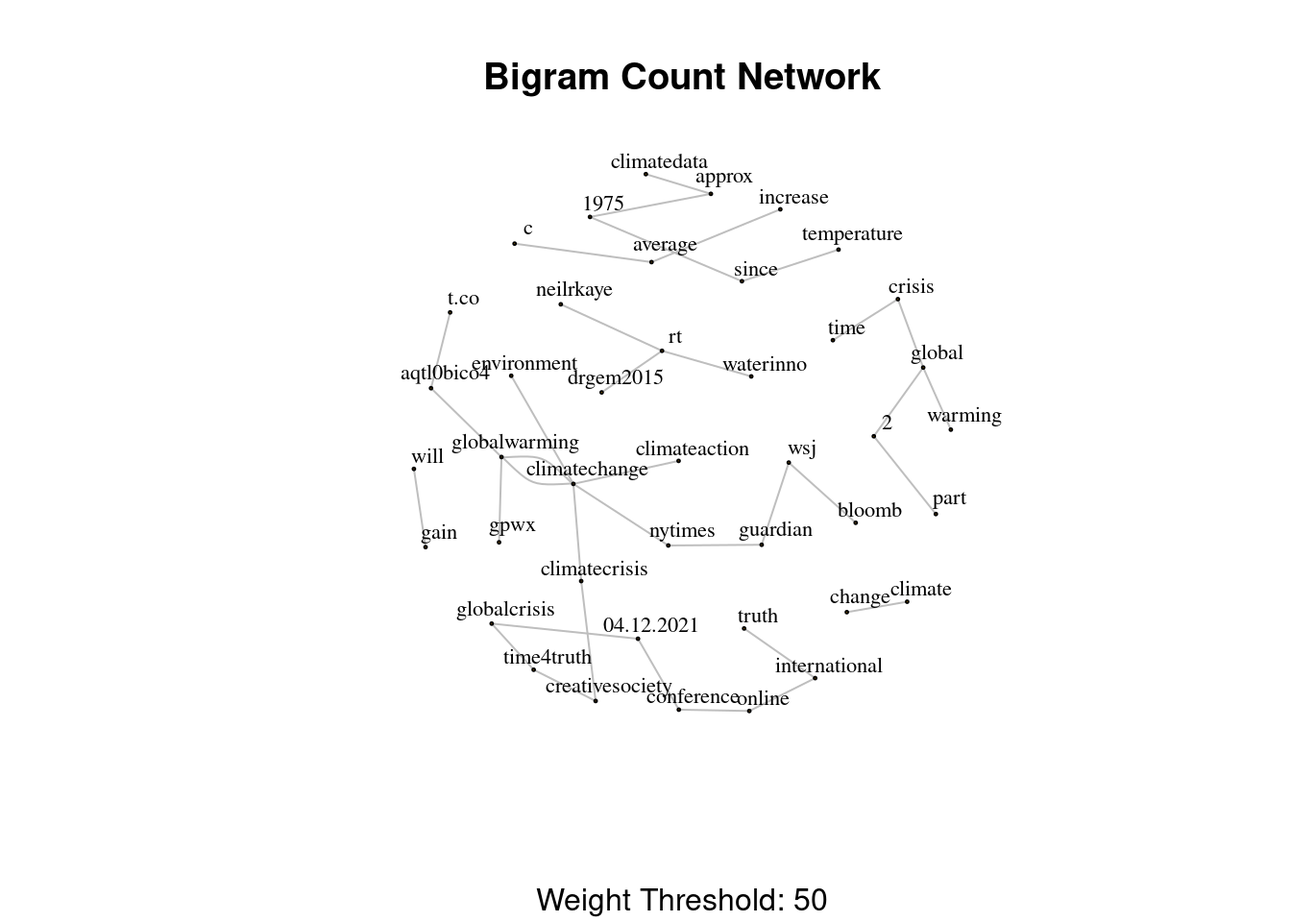
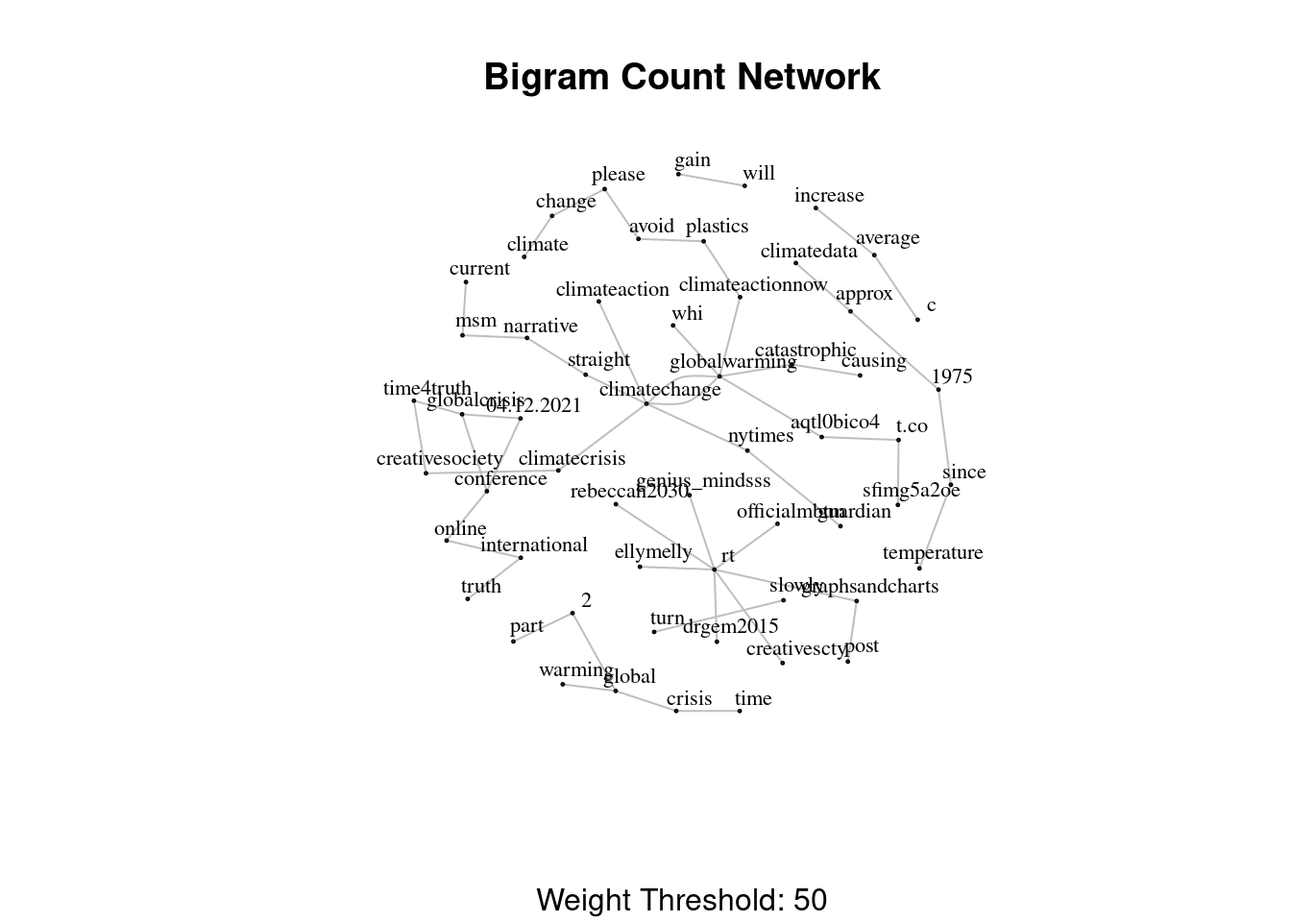
twitter sentiment analysis post

Changed region(s): [[0.2812, 0.1562, 0.7812, 0.7812]]

diff --git a/content/post/2021-12-05-twitter-sentiment-analysis-with-r/index.html b/content/post/2021-12-05-twitter-sentiment-analysis-with-r/index.html
@@ -16,7 +16,7 @@ output:
   blogdown::html_page:
     toc: true
     toc_depth: 2
-draft: true
+draft: false 
 ---
 
 <script src="{{< blogdown/postref >}}index_files/header-attrs/header-attrs.js"></script>
@@ -166,10 +166,10 @@ tweets.df %&lt;&gt;%
   mutate(Created_At_Round = created%&gt;% round(units = &#39;hours&#39;) %&gt;% as.POSIXct())
 
 tweets.df %&gt;% pull(created) %&gt;% min()
-## [1] &quot;2021-11-30 22:51:06 UTC&quot;
+## [1] &quot;2021-12-04 03:55:59 UTC&quot;
 
 tweets.df %&gt;% pull(created) %&gt;% max()
-## [1] &quot;2021-12-06 02:00:01 UTC&quot;
+## [1] &quot;2021-12-09 02:39:20 UTC&quot;
 
 plt &lt;- tweets.df %&gt;% 
   dplyr::count(Created_At_Round) %&gt;% 
@@ -182,7 +182,7 @@ plt &lt;- tweets.df %&gt;%
 
 plt %&gt;% ggplotly()</code></pre>
 <div id="htmlwidget-1" style="width:672px;height:480px;" class="plotly html-widget"></div>
-<script type="application/json" data-for="htmlwidget-1">{"x":{"data":[{"x":[1638313200,1638316800,1638320400,1638324000,1638327600,1638331200,1638334800,1638338400,1638342000,1638345600,1638349200,1638352800,1638356400,1638360000,1638363600,1638367200,1638370800,1638374400,1638378000,1638381600,1638385200,1638388800,1638392400,1638396000,1638399600,1638403200,1638406800,1638410400,1638414000,1638417600,1638421200,1638424800,1638428400,1638432000,1638435600,1638439200,1638442800,1638446400,1638450000,1638453600,1638457200,1638460800,1638464400,1638468000,1638471600,1638475200,1638478800,1638482400,1638486000,1638489600,1638493200,1638496800,1638500400,1638504000,1638507600,1638511200,1638514800,1638518400,1638522000,1638525600,1638529200,1638532800,1638536400,1638540000,1638543600,1638547200,1638550800,1638554400,1638558000,1638561600,1638565200,1638568800,1638572400,1638576000,1638579600,1638583200,1638586800,1638590400,1638594000,1638597600,1638601200,1638604800,1638608400,1638612000,1638615600,1638619200,1638622800,1638626400,1638630000,1638633600,1638637200,1638640800,1638644400,1638648000,1638651600,1638655200,1638658800,1638662400,1638666000,1638669600,1638673200,1638676800,1638680400,1638684000,1638687600,1638691200,1638694800,1638698400,1638702000,1638705600,1638709200,1638712800,1638716400,1638720000,1638723600,1638727200,1638730800,1638734400,1638738000,1638741600,1638745200,1638748800,1638752400,1638756000],"y":[24,16,20,14,29,20,27,28,56,22,31,46,31,21,32,30,64,36,53,58,44,33,37,41,30,19,17,42,20,41,38,37,39,38,42,42,50,63,37,39,45,38,43,81,35,56,49,26,33,40,52,21,27,26,24,19,22,30,26,24,27,27,32,29,38,52,52,36,29,37,47,16,10,8,16,26,21,44,23,24,20,9,11,17,25,32,50,32,45,59,43,40,38,50,76,22,28,16,26,20,15,30,24,16,27,14,22,33,23,37,23,18,25,41,22,42,32,24,31,47,27,18,24,8],"text":["Created_At_Round: 2021-11-30 23:00:00<br />n: 24","Created_At_Round: 2021-12-01 00:00:00<br />n: 16","Created_At_Round: 2021-12-01 01:00:00<br />n: 20","Created_At_Round: 2021-12-01 02:00:00<br />n: 14","Created_At_Round: 2021-12-01 03:00:00<br />n: 29","Created_At_Round: 2021-12-01 04:00:00<br />n: 20","Created_At_Round: 2021-12-01 05:00:00<br />n: 27","Created_At_Round: 2021-12-01 06:00:00<br />n: 28","Created_At_Round: 2021-12-01 07:00:00<br />n: 56","Created_At_Round: 2021-12-01 08:00:00<br />n: 22","Created_At_Round: 2021-12-01 09:00:00<br />n: 31","Created_At_Round: 2021-12-01 10:00:00<br />n: 46","Created_At_Round: 2021-12-01 11:00:00<br />n: 31","Created_At_Round: 2021-12-01 12:00:00<br />n: 21","Created_At_Round: 2021-12-01 13:00:00<br />n: 32","Created_At_Round: 2021-12-01 14:00:00<br />n: 30","Created_At_Round: 2021-12-01 15:00:00<br />n: 64","Created_At_Round: 2021-12-01 16:00:00<br />n: 36","Created_At_Round: 2021-12-01 17:00:00<br />n: 53","Created_At_Round: 2021-12-01 18:00:00<br />n: 58","Created_At_Round: 2021-12-01 19:00:00<br />n: 44","Created_At_Round: 2021-12-01 20:00:00<br />n: 33","Created_At_Round: 2021-12-01 21:00:00<br />n: 37","Created_At_Round: 2021-12-01 22:00:00<br />n: 41","Created_At_Round: 2021-12-01 23:00:00<br />n: 30","Created_At_Round: 2021-12-02 00:00:00<br />n: 19","Created_At_Round: 2021-12-02 01:00:00<br />n: 17","Created_At_Round: 2021-12-02 02:00:00<br />n: 42","Created_At_Round: 2021-12-02 03:00:00<br />n: 20","Created_At_Round: 2021-12-02 04:00:00<br />n: 41","Created_At_Round: 2021-12-02 05:00:00<br />n: 38","Created_At_Round: 2021-12-02 06:00:00<br />n: 37","Created_At_Round: 2021-12-02 07:00:00<br />n: 39","Created_At_Round: 2021-12-02 08:00:00<br />n: 38","Created_At_Round: 2021-12-02 09:00:00<br />n: 42","Created_At_Round: 2021-12-02 10:00:00<br />n: 42","Created_At_Round: 2021-12-02 11:00:00<br />n: 50","Created_At_Round: 2021-12-02 12:00:00<br />n: 63","Created_At_Round: 2021-12-02 13:00:00<br />n: 37","Created_At_Round: 2021-12-02 14:00:00<br />n: 39","Created_At_Round: 2021-12-02 15:00:00<br />n: 45","Created_At_Round: 2021-12-02 16:00:00<br />n: 38","Created_At_Round: 2021-12-02 17:00:00<br />n: 43","Created_At_Round: 2021-12-02 18:00:00<br />n: 81","Created_At_Round: 2021-12-02 19:00:00<br />n: 35","Created_At_Round: 2021-12-02 20:00:00<br />n: 56","Created_At_Round: 2021-12-02 21:00:00<br />n: 49","Created_At_Round: 2021-12-02 22:00:00<br />n: 26","Created_At_Round: 2021-12-02 23:00:00<br />n: 33","Created_At_Round: 2021-12-03 00:00:00<br />n: 40","Created_At_Round: 2021-12-03 01:00:00<br />n: 52","Created_At_Round: 2021-12-03 02:00:00<br />n: 21","Created_At_Round: 2021-12-03 03:00:00<br />n: 27","Created_At_Round: 2021-12-03 04:00:00<br />n: 26","Created_At_Round: 2021-12-03 05:00:00<br />n: 24","Created_At_Round: 2021-12-03 06:00:00<br />n: 19","Created_At_Round: 2021-12-03 07:00:00<br />n: 22","Created_At_Round: 2021-12-03 08:00:00<br />n: 30","Created_At_Round: 2021-12-03 09:00:00<br />n: 26","Created_At_Round: 2021-12-03 10:00:00<br />n: 24","Created_At_Round: 2021-12-03 11:00:00<br />n: 27","Created_At_Round: 2021-12-03 12:00:00<br />n: 27","Created_At_Round: 2021-12-03 13:00:00<br />n: 32","Created_At_Round: 2021-12-03 14:00:00<br />n: 29","Created_At_Round: 2021-12-03 15:00:00<br />n: 38","Created_At_Round: 2021-12-03 16:00:00<br />n: 52","Created_At_Round: 2021-12-03 17:00:00<br />n: 52","Created_At_Round: 2021-12-03 18:00:00<br />n: 36","Created_At_Round: 2021-12-03 19:00:00<br />n: 29","Created_At_Round: 2021-12-03 20:00:00<br />n: 37","Created_At_Round: 2021-12-03 21:00:00<br />n: 47","Created_At_Round: 2021-12-03 22:00:00<br />n: 16","Created_At_Round: 2021-12-03 23:00:00<br />n: 10","Created_At_Round: 2021-12-04 00:00:00<br />n:  8","Created_At_Round: 2021-12-04 01:00:00<br />n: 16","Created_At_Round: 2021-12-04 02:00:00<br />n: 26","Created_At_Round: 2021-12-04 03:00:00<br />n: 21","Created_At_Round: 2021-12-04 04:00:00<br />n: 44","Created_At_Round: 2021-12-04 05:00:00<br />n: 23","Created_At_Round: 2021-12-04 06:00:00<br />n: 24","Created_At_Round: 2021-12-04 07:00:00<br />n: 20","Created_At_Round: 2021-12-04 08:00:00<br />n:  9","Created_At_Round: 2021-12-04 09:00:00<br />n: 11","Created_At_Round: 2021-12-04 10:00:00<br />n: 17","Created_At_Round: 2021-12-04 11:00:00<br />n: 25","Created_At_Round: 2021-12-04 12:00:00<br />n: 32","Created_At_Round: 2021-12-04 13:00:00<br />n: 50","Created_At_Round: 2021-12-04 14:00:00<br />n: 32","Created_At_Round: 2021-12-04 15:00:00<br />n: 45","Created_At_Round: 2021-12-04 16:00:00<br />n: 59","Created_At_Round: 2021-12-04 17:00:00<br />n: 43","Created_At_Round: 2021-12-04 18:00:00<br />n: 40","Created_At_Round: 2021-12-04 19:00:00<br />n: 38","Created_At_Round: 2021-12-04 20:00:00<br />n: 50","Created_At_Round: 2021-12-04 21:00:00<br />n: 76","Created_At_Round: 2021-12-04 22:00:00<br />n: 22","Created_At_Round: 2021-12-04 23:00:00<br />n: 28","Created_At_Round: 2021-12-05 00:00:00<br />n: 16","Created_At_Round: 2021-12-05 01:00:00<br />n: 26","Created_At_Round: 2021-12-05 02:00:00<br />n: 20","Created_At_Round: 2021-12-05 03:00:00<br />n: 15","Created_At_Round: 2021-12-05 04:00:00<br />n: 30","Created_At_Round: 2021-12-05 05:00:00<br />n: 24","Created_At_Round: 2021-12-05 06:00:00<br />n: 16","Created_At_Round: 2021-12-05 07:00:00<br />n: 27","Created_At_Round: 2021-12-05 08:00:00<br />n: 14","Created_At_Round: 2021-12-05 09:00:00<br />n: 22","Created_At_Round: 2021-12-05 10:00:00<br />n: 33","Created_At_Round: 2021-12-05 11:00:00<br />n: 23","Created_At_Round: 2021-12-05 12:00:00<br />n: 37","Created_At_Round: 2021-12-05 13:00:00<br />n: 23","Created_At_Round: 2021-12-05 14:00:00<br />n: 18","Created_At_Round: 2021-12-05 15:00:00<br />n: 25","Created_At_Round: 2021-12-05 16:00:00<br />n: 41","Created_At_Round: 2021-12-05 17:00:00<br />n: 22","Created_At_Round: 2021-12-05 18:00:00<br />n: 42","Created_At_Round: 2021-12-05 19:00:00<br />n: 32","Created_At_Round: 2021-12-05 20:00:00<br />n: 24","Created_At_Round: 2021-12-05 21:00:00<br />n: 31","Created_At_Round: 2021-12-05 22:00:00<br />n: 47","Created_At_Round: 2021-12-05 23:00:00<br />n: 27","Created_At_Round: 2021-12-06 00:00:00<br />n: 18","Created_At_Round: 2021-12-06 01:00:00<br />n: 24","Created_At_Round: 2021-12-06 02:00:00<br />n:  8"],"type":"scatter","mode":"lines","line":{"width":1.88976377952756,"color":"rgba(0,0,0,1)","dash":"solid"},"hoveron":"points","showlegend":false,"xaxis":"x","yaxis":"y","hoverinfo":"text","frame":null}],"layout":{"margin":{"t":43.7625570776256,"r":7.30593607305936,"b":40.1826484018265,"l":22.648401826484},"plot_bgcolor":"rgba(255,255,255,1)","paper_bgcolor":"rgba(255,255,255,1)","font":{"color":"rgba(0,0,0,1)","family":"","size":14.6118721461187},"title":{"text":"Number of Tweets per Hour","font":{"color":"rgba(0,0,0,1)","family":"","size":17.5342465753425},"x":0,"xref":"paper"},"xaxis":{"domain":[0,1],"automargin":true,"type":"linear","autorange":false,"range":[1638291060,1638778140],"tickmode":"array","ticktext":["Dec 02","Dec 04","Dec 06"],"tickvals":[1638403200,1638576000,1638748800],"categoryorder":"array","categoryarray":["Dec 02","Dec 04","Dec 06"],"nticks":null,"ticks":"outside","tickcolor":"rgba(179,179,179,1)","ticklen":3.65296803652968,"tickwidth":0.33208800332088,"showticklabels":true,"tickfont":{"color":"rgba(77,77,77,1)","family":"","size":11.689497716895},"tickangle":-0,"showline":false,"linecolor":null,"linewidth":0,"showgrid":true,"gridcolor":"rgba(222,222,222,1)","gridwidth":0.33208800332088,"zeroline":false,"anchor":"y","title":{"text":"Date","font":{"color":"rgba(0,0,0,1)","family":"","size":14.6118721461187}},"hoverformat":".2f"},"yaxis":{"domain":[0,1],"automargin":true,"type":"linear","autorange":false,"range":[4.35,84.65],"tickmode":"array","ticktext":["20","40","60","80"],"tickvals":[20,40,60,80],"categoryorder":"array","categoryarray":["20","40","60","80"],"nticks":null,"ticks":"outside","tickcolor":"rgba(179,179,179,1)","ticklen":3.65296803652968,"tickwidth":0.33208800332088,"showticklabels":true,"tickfont":{"color":"rgba(77,77,77,1)","family":"","size":11.689497716895},"tickangle":-0,"showline":false,"linecolor":null,"linewidth":0,"showgrid":true,"gridcolor":"rgba(222,222,222,1)","gridwidth":0.33208800332088,"zeroline":false,"anchor":"x","title":{"text":"","font":{"color":"rgba(0,0,0,1)","family":"","size":14.6118721461187}},"hoverformat":".2f"},"shapes":[{"type":"rect","fillcolor":"transparent","line":{"color":"rgba(179,179,179,1)","width":0.66417600664176,"linetype":"solid"},"yref":"paper","xref":"paper","x0":0,"x1":1,"y0":0,"y1":1}],"showlegend":false,"legend":{"bgcolor":"rgba(255,255,255,1)","bordercolor":"transparent","borderwidth":1.88976377952756,"font":{"color":"rgba(0,0,0,1)","family":"","size":11.689497716895}},"hovermode":"closest","barmode":"relative"},"config":{"doubleClick":"reset","modeBarButtonsToAdd":["hoverclosest","hovercompare"],"showSendToCloud":false},"source":"A","attrs":{"1e0ce1ae610f5":{"x":{},"y":{},"type":"scatter"}},"cur_data":"1e0ce1ae610f5","visdat":{"1e0ce1ae610f5":["function (y) ","x"]},"highlight":{"on":"plotly_click","persistent":false,"dynamic":false,"selectize":false,"opacityDim":0.2,"selected":{"opacity":1},"debounce":0},"shinyEvents":["plotly_hover","plotly_click","plotly_selected","plotly_relayout","plotly_brushed","plotly_brushing","plotly_clickannotation","plotly_doubleclick","plotly_deselect","plotly_afterplot","plotly_sunburstclick"],"base_url":"https://plot.ly"},"evals":[],"jsHooks":[]}</script>
+<script type="application/json" data-for="htmlwidget-1">{"x":{"data":[{"x":[1638590400,1638594000,1638597600,1638601200,1638604800,1638608400,1638612000,1638615600,1638619200,1638622800,1638626400,1638630000,1638633600,1638637200,1638640800,1638644400,1638648000,1638651600,1638655200,1638658800,1638662400,1638666000,1638669600,1638673200,1638676800,1638680400,1638684000,1638687600,1638691200,1638694800,1638698400,1638702000,1638705600,1638709200,1638712800,1638716400,1638720000,1638723600,1638727200,1638730800,1638734400,1638738000,1638741600,1638745200,1638748800,1638752400,1638756000,1638759600,1638763200,1638766800,1638770400,1638774000,1638777600,1638781200,1638784800,1638788400,1638792000,1638795600,1638799200,1638802800,1638806400,1638810000,1638813600,1638817200,1638820800,1638824400,1638828000,1638831600,1638835200,1638838800,1638842400,1638846000,1638849600,1638853200,1638856800,1638860400,1638864000,1638867600,1638871200,1638874800,1638878400,1638882000,1638885600,1638889200,1638892800,1638896400,1638900000,1638903600,1638907200,1638910800,1638914400,1638918000,1638921600,1638925200,1638928800,1638932400,1638936000,1638939600,1638943200,1638946800,1638950400,1638954000,1638957600,1638961200,1638964800,1638968400,1638972000,1638975600,1638979200,1638982800,1638986400,1638990000,1638993600,1638997200,1639000800,1639004400,1639008000,1639011600,1639015200,1639018800],"y":[31,23,24,21,8,10,17,25,32,50,32,43,58,44,41,38,49,77,22,28,16,26,23,15,28,24,17,26,14,22,34,22,37,23,19,24,41,22,40,32,24,31,46,26,18,23,13,17,18,26,24,30,28,24,26,23,22,26,68,38,43,48,42,58,41,50,82,27,27,19,22,39,44,35,32,36,38,27,32,68,74,48,49,62,37,34,52,43,50,48,33,37,18,17,35,36,28,20,34,44,41,37,37,40,58,33,32,27,35,33,32,38,39,45,26,28,27,31,17,6],"text":["Created_At_Round: 2021-12-04 04:00:00<br />n: 31","Created_At_Round: 2021-12-04 05:00:00<br />n: 23","Created_At_Round: 2021-12-04 06:00:00<br />n: 24","Created_At_Round: 2021-12-04 07:00:00<br />n: 21","Created_At_Round: 2021-12-04 08:00:00<br />n:  8","Created_At_Round: 2021-12-04 09:00:00<br />n: 10","Created_At_Round: 2021-12-04 10:00:00<br />n: 17","Created_At_Round: 2021-12-04 11:00:00<br />n: 25","Created_At_Round: 2021-12-04 12:00:00<br />n: 32","Created_At_Round: 2021-12-04 13:00:00<br />n: 50","Created_At_Round: 2021-12-04 14:00:00<br />n: 32","Created_At_Round: 2021-12-04 15:00:00<br />n: 43","Created_At_Round: 2021-12-04 16:00:00<br />n: 58","Created_At_Round: 2021-12-04 17:00:00<br />n: 44","Created_At_Round: 2021-12-04 18:00:00<br />n: 41","Created_At_Round: 2021-12-04 19:00:00<br />n: 38","Created_At_Round: 2021-12-04 20:00:00<br />n: 49","Created_At_Round: 2021-12-04 21:00:00<br />n: 77","Created_At_Round: 2021-12-04 22:00:00<br />n: 22","Created_At_Round: 2021-12-04 23:00:00<br />n: 28","Created_At_Round: 2021-12-05 00:00:00<br />n: 16","Created_At_Round: 2021-12-05 01:00:00<br />n: 26","Created_At_Round: 2021-12-05 02:00:00<br />n: 23","Created_At_Round: 2021-12-05 03:00:00<br />n: 15","Created_At_Round: 2021-12-05 04:00:00<br />n: 28","Created_At_Round: 2021-12-05 05:00:00<br />n: 24","Created_At_Round: 2021-12-05 06:00:00<br />n: 17","Created_At_Round: 2021-12-05 07:00:00<br />n: 26","Created_At_Round: 2021-12-05 08:00:00<br />n: 14","Created_At_Round: 2021-12-05 09:00:00<br />n: 22","Created_At_Round: 2021-12-05 10:00:00<br />n: 34","Created_At_Round: 2021-12-05 11:00:00<br />n: 22","Created_At_Round: 2021-12-05 12:00:00<br />n: 37","Created_At_Round: 2021-12-05 13:00:00<br />n: 23","Created_At_Round: 2021-12-05 14:00:00<br />n: 19","Created_At_Round: 2021-12-05 15:00:00<br />n: 24","Created_At_Round: 2021-12-05 16:00:00<br />n: 41","Created_At_Round: 2021-12-05 17:00:00<br />n: 22","Created_At_Round: 2021-12-05 18:00:00<br />n: 40","Created_At_Round: 2021-12-05 19:00:00<br />n: 32","Created_At_Round: 2021-12-05 20:00:00<br />n: 24","Created_At_Round: 2021-12-05 21:00:00<br />n: 31","Created_At_Round: 2021-12-05 22:00:00<br />n: 46","Created_At_Round: 2021-12-05 23:00:00<br />n: 26","Created_At_Round: 2021-12-06 00:00:00<br />n: 18","Created_At_Round: 2021-12-06 01:00:00<br />n: 23","Created_At_Round: 2021-12-06 02:00:00<br />n: 13","Created_At_Round: 2021-12-06 03:00:00<br />n: 17","Created_At_Round: 2021-12-06 04:00:00<br />n: 18","Created_At_Round: 2021-12-06 05:00:00<br />n: 26","Created_At_Round: 2021-12-06 06:00:00<br />n: 24","Created_At_Round: 2021-12-06 07:00:00<br />n: 30","Created_At_Round: 2021-12-06 08:00:00<br />n: 28","Created_At_Round: 2021-12-06 09:00:00<br />n: 24","Created_At_Round: 2021-12-06 10:00:00<br />n: 26","Created_At_Round: 2021-12-06 11:00:00<br />n: 23","Created_At_Round: 2021-12-06 12:00:00<br />n: 22","Created_At_Round: 2021-12-06 13:00:00<br />n: 26","Created_At_Round: 2021-12-06 14:00:00<br />n: 68","Created_At_Round: 2021-12-06 15:00:00<br />n: 38","Created_At_Round: 2021-12-06 16:00:00<br />n: 43","Created_At_Round: 2021-12-06 17:00:00<br />n: 48","Created_At_Round: 2021-12-06 18:00:00<br />n: 42","Created_At_Round: 2021-12-06 19:00:00<br />n: 58","Created_At_Round: 2021-12-06 20:00:00<br />n: 41","Created_At_Round: 2021-12-06 21:00:00<br />n: 50","Created_At_Round: 2021-12-06 22:00:00<br />n: 82","Created_At_Round: 2021-12-06 23:00:00<br />n: 27","Created_At_Round: 2021-12-07 00:00:00<br />n: 27","Created_At_Round: 2021-12-07 01:00:00<br />n: 19","Created_At_Round: 2021-12-07 02:00:00<br />n: 22","Created_At_Round: 2021-12-07 03:00:00<br />n: 39","Created_At_Round: 2021-12-07 04:00:00<br />n: 44","Created_At_Round: 2021-12-07 05:00:00<br />n: 35","Created_At_Round: 2021-12-07 06:00:00<br />n: 32","Created_At_Round: 2021-12-07 07:00:00<br />n: 36","Created_At_Round: 2021-12-07 08:00:00<br />n: 38","Created_At_Round: 2021-12-07 09:00:00<br />n: 27","Created_At_Round: 2021-12-07 10:00:00<br />n: 32","Created_At_Round: 2021-12-07 11:00:00<br />n: 68","Created_At_Round: 2021-12-07 12:00:00<br />n: 74","Created_At_Round: 2021-12-07 13:00:00<br />n: 48","Created_At_Round: 2021-12-07 14:00:00<br />n: 49","Created_At_Round: 2021-12-07 15:00:00<br />n: 62","Created_At_Round: 2021-12-07 16:00:00<br />n: 37","Created_At_Round: 2021-12-07 17:00:00<br />n: 34","Created_At_Round: 2021-12-07 18:00:00<br />n: 52","Created_At_Round: 2021-12-07 19:00:00<br />n: 43","Created_At_Round: 2021-12-07 20:00:00<br />n: 50","Created_At_Round: 2021-12-07 21:00:00<br />n: 48","Created_At_Round: 2021-12-07 22:00:00<br />n: 33","Created_At_Round: 2021-12-07 23:00:00<br />n: 37","Created_At_Round: 2021-12-08 00:00:00<br />n: 18","Created_At_Round: 2021-12-08 01:00:00<br />n: 17","Created_At_Round: 2021-12-08 02:00:00<br />n: 35","Created_At_Round: 2021-12-08 03:00:00<br />n: 36","Created_At_Round: 2021-12-08 04:00:00<br />n: 28","Created_At_Round: 2021-12-08 05:00:00<br />n: 20","Created_At_Round: 2021-12-08 06:00:00<br />n: 34","Created_At_Round: 2021-12-08 07:00:00<br />n: 44","Created_At_Round: 2021-12-08 08:00:00<br />n: 41","Created_At_Round: 2021-12-08 09:00:00<br />n: 37","Created_At_Round: 2021-12-08 10:00:00<br />n: 37","Created_At_Round: 2021-12-08 11:00:00<br />n: 40","Created_At_Round: 2021-12-08 12:00:00<br />n: 58","Created_At_Round: 2021-12-08 13:00:00<br />n: 33","Created_At_Round: 2021-12-08 14:00:00<br />n: 32","Created_At_Round: 2021-12-08 15:00:00<br />n: 27","Created_At_Round: 2021-12-08 16:00:00<br />n: 35","Created_At_Round: 2021-12-08 17:00:00<br />n: 33","Created_At_Round: 2021-12-08 18:00:00<br />n: 32","Created_At_Round: 2021-12-08 19:00:00<br />n: 38","Created_At_Round: 2021-12-08 20:00:00<br />n: 39","Created_At_Round: 2021-12-08 21:00:00<br />n: 45","Created_At_Round: 2021-12-08 22:00:00<br />n: 26","Created_At_Round: 2021-12-08 23:00:00<br />n: 28","Created_At_Round: 2021-12-09 00:00:00<br />n: 27","Created_At_Round: 2021-12-09 01:00:00<br />n: 31","Created_At_Round: 2021-12-09 02:00:00<br />n: 17","Created_At_Round: 2021-12-09 03:00:00<br />n:  6"],"type":"scatter","mode":"lines","line":{"width":1.88976377952756,"color":"rgba(0,0,0,1)","dash":"solid"},"hoveron":"points","showlegend":false,"xaxis":"x","yaxis":"y","hoverinfo":"text","frame":null}],"layout":{"margin":{"t":43.7625570776256,"r":7.30593607305936,"b":40.1826484018265,"l":22.648401826484},"plot_bgcolor":"rgba(255,255,255,1)","paper_bgcolor":"rgba(255,255,255,1)","font":{"color":"rgba(0,0,0,1)","family":"","size":14.6118721461187},"title":{"text":"Number of Tweets per Hour","font":{"color":"rgba(0,0,0,1)","family":"","size":17.5342465753425},"x":0,"xref":"paper"},"xaxis":{"domain":[0,1],"automargin":true,"type":"linear","autorange":false,"range":[1638568980,1639040220],"tickmode":"array","ticktext":["Dec 05","Dec 07","Dec 09"],"tickvals":[1638662400,1638835200,1639008000],"categoryorder":"array","categoryarray":["Dec 05","Dec 07","Dec 09"],"nticks":null,"ticks":"outside","tickcolor":"rgba(179,179,179,1)","ticklen":3.65296803652968,"tickwidth":0.33208800332088,"showticklabels":true,"tickfont":{"color":"rgba(77,77,77,1)","family":"","size":11.689497716895},"tickangle":-0,"showline":false,"linecolor":null,"linewidth":0,"showgrid":true,"gridcolor":"rgba(222,222,222,1)","gridwidth":0.33208800332088,"zeroline":false,"anchor":"y","title":{"text":"Date","font":{"color":"rgba(0,0,0,1)","family":"","size":14.6118721461187}},"hoverformat":".2f"},"yaxis":{"domain":[0,1],"automargin":true,"type":"linear","autorange":false,"range":[2.2,85.8],"tickmode":"array","ticktext":["20","40","60","80"],"tickvals":[20,40,60,80],"categoryorder":"array","categoryarray":["20","40","60","80"],"nticks":null,"ticks":"outside","tickcolor":"rgba(179,179,179,1)","ticklen":3.65296803652968,"tickwidth":0.33208800332088,"showticklabels":true,"tickfont":{"color":"rgba(77,77,77,1)","family":"","size":11.689497716895},"tickangle":-0,"showline":false,"linecolor":null,"linewidth":0,"showgrid":true,"gridcolor":"rgba(222,222,222,1)","gridwidth":0.33208800332088,"zeroline":false,"anchor":"x","title":{"text":"","font":{"color":"rgba(0,0,0,1)","family":"","size":14.6118721461187}},"hoverformat":".2f"},"shapes":[{"type":"rect","fillcolor":"transparent","line":{"color":"rgba(179,179,179,1)","width":0.66417600664176,"linetype":"solid"},"yref":"paper","xref":"paper","x0":0,"x1":1,"y0":0,"y1":1}],"showlegend":false,"legend":{"bgcolor":"rgba(255,255,255,1)","bordercolor":"transparent","borderwidth":1.88976377952756,"font":{"color":"rgba(0,0,0,1)","family":"","size":11.689497716895}},"hovermode":"closest","barmode":"relative"},"config":{"doubleClick":"reset","modeBarButtonsToAdd":["hoverclosest","hovercompare"],"showSendToCloud":false},"source":"A","attrs":{"a58b47cbc6e51":{"x":{},"y":{},"type":"scatter"}},"cur_data":"a58b47cbc6e51","visdat":{"a58b47cbc6e51":["function (y) ","x"]},"highlight":{"on":"plotly_click","persistent":false,"dynamic":false,"selectize":false,"opacityDim":0.2,"selected":{"opacity":1},"debounce":0},"shinyEvents":["plotly_hover","plotly_click","plotly_selected","plotly_relayout","plotly_brushed","plotly_brushing","plotly_clickannotation","plotly_doubleclick","plotly_deselect","plotly_afterplot","plotly_sunburstclick"],"base_url":"https://plot.ly"},"evals":[],"jsHooks":[]}</script>
 
 BRRR::skrrrahh(44)
 </div>
@@ -259,8 +259,8 @@ BRRR::skrrrahh(44)</code></pre>
 # sentiment score frequency table
 table(analysis$score)
 ## 
-##   -4   -3   -2   -1    0    1    2    3    4 
-##   10   54  235  795 2044  730   92   37    3</code></pre>
+##   -4   -3   -2   -1    0    1    2    3 
+##   13   45  208 1016 1998  587   94   39</code></pre>
 </div>
 </div>
 <div id="histogram-of-sentiment-scores" class="section level4">
@@ -310,7 +310,9 @@ tdm &lt;- sort(rowSums(tdm), decreasing = TRUE)
 tdm &lt;- data.frame(word = names(tdm), freq = tdm)
 set.seed(123)
 wordcloud(text_corpus, min.freq = 1, max.words = 100, scale = c(2.2,1),
-          colors=brewer.pal(8, &quot;Dark2&quot;), random.color = T, random.order = F)</code></pre>
+          colors=brewer.pal(8, &quot;Dark2&quot;), random.color = T, random.order = F)
+## Warning in wordcloud(text_corpus, min.freq = 1, max.words = 100, scale =
+## c(2.2, : uprootthesystem could not be fit on page. It will not be plotted.</code></pre>
 <p><img src="{{< blogdown/postref >}}index_files/figure-html/unnamed-chunk-8-1.png" width="672" style="display: block; margin: auto;" /></p>
 <pre class="r"><code>
 BRRR::skrrrahh(44)</code></pre>
@@ -350,17 +352,17 @@ bi.gram.words &lt;- tweets.df %&gt;%
 bi.gram.words %&gt;% 
   select(bigram) %&gt;% 
   head(10)
-##               bigram
-## 1            what is
-## 2             is the
-## 3           the true
-## 4         true cause
-## 5           cause of
-## 6          of global
-## 7     global warming
-## 8  warming telepathy
-## 9     telepathy said
-## 10    said something
+##                 bigram
+## 1      rt officialmbtm
+## 2  officialmbtm what&#39;s
+## 3           what&#39;s the
+## 4           the secret
+## 5            secret of
+## 6              of life
+## 7            life more
+## 8            more here
+## 9           here https
+## 10          https t.co
 
 
 extra.stop.words &lt;- c(&#39;https&#39;)
@@ -386,12 +388,12 @@ BRRR::skrrrahh(&quot;44&quot;)
 
 bi.gram.count %&gt;% head()
 ##           word1         word2 weight
-## 1 globalwarming climatechange    319
-## 2       climate        change    272
-## 3        global       warming    271
-## 4  globalcrisis    time4truth    214
-## 5            rt     drgem2015    154
-## 6          t.co    aqtl0bico4    145
+## 1       climate        change    261
+## 2  globalcrisis    time4truth    252
+## 3 globalwarming climatechange    236
+## 4  catastrophic globalwarming    227
+## 5       causing  catastrophic    227
+## 6       current           msm    227
 
 BRRR::skrrrahh(&quot;44&quot;)
 ## Warning in BRRR::skrrrahh(&quot;44&quot;): &quot;44&quot; is not a valid sound nor path.</code></pre>
@@ -515,7 +517,7 @@ forceNetwork(
   opacityNoHover = 1
 )</code></pre>
 <div id="htmlwidget-2" style="width:672px;height:480px;" class="forceNetwork html-widget"></div>
-<script type="application/json" data-for="htmlwidget-2">{"x":{"links":{"source":[20,3,16,2,21,0,5,27,17,1,13,11,0,0,16,8,11,9,2,4,13,10,0,23,17,8,4,13,28,19,7,3,12,2,4,26],"target":[25,25,28,22,22,6,6,40,18,31,38,13,13,13,36,20,24,24,7,33,15,35,30,26,37,12,39,23,29,29,34,9,14,32,41,27],"value":[10,8.52664576802508,8.49529780564263,6.70846394984326,4.82758620689655,4.54545454545454,4.35736677115987,4.13793103448276,4.01253918495298,3.38557993730408,3.22884012539185,3.13479623824451,3.07210031347962,3.07210031347962,3.00940438871473,2.69592476489028,2.47648902821317,2.44514106583072,2.35109717868339,2.35109717868339,2.35109717868339,2.35109717868339,2.25705329153605,2.25705329153605,2.16300940438871,2.13166144200627,2.06896551724138,1.97492163009404,1.78683385579937,1.69278996865204,1.69278996865204,1.69278996865204,1.66144200626959,1.66144200626959,1.66144200626959,1.63009404388715],"colour":["#666","#666","#666","#666","#666","#666","#666","#666","#666","#666","#666","#666","#666","#666","#666","#666","#666","#666","#666","#666","#666","#666","#666","#666","#666","#666","#666","#666","#666","#666","#666","#666","#666","#666","#666","#666"]},"nodes":{"name":["globalwarming","climate","global","globalcrisis","rt","t.co","aqtl0bico4","crisis","online","time4truth","will","climatecrisis","international","climatechange","truth","environment","approx","average","c","temperature","conference","part","2","nytimes","creativesociety","04.12.2021","guardian","wsj","1975","since","gpwx","change","warming","drgem2015","time","gain","climatedata","increase","climateaction","neilrkaye","bloomb","waterinno"],"group":[1,1,1,1,1,1,1,1,1,1,1,1,1,1,1,1,1,1,1,1,1,1,1,1,1,1,1,1,1,1,1,1,1,1,1,1,1,1,1,1,1,1],"nodesize":[5.96,2.72,4.72,2.71,2.61,1.45,2.84,2.6,2.06,3.17,1,1.61,1.77,7.45,0.79,0.78,1.28,1.5,0.75,0.75,1.8,0.72,1.41,1.62,1.66,1.29,1.2,1.08,1.06,1.28,0.52,2.72,2.71,1.54,1.28,1,0.75,0.75,0.68,0.54,0.54,0.53]},"options":{"NodeID":"name","Group":"Group","colourScale":"d3.scaleOrdinal(d3.schemeCategory20);","fontSize":12,"fontFamily":"serif","clickTextSize":30,"linkDistance":50,"linkWidth":"function(d) { return Math.sqrt(d.value); }","charge":-30,"opacity":0.9,"zoom":true,"legend":false,"arrows":false,"nodesize":true,"radiusCalculation":" Math.sqrt(d.nodesize)+6","bounded":false,"opacityNoHover":1,"clickAction":null}},"evals":[],"jsHooks":[]}</script>
+<script type="application/json" data-for="htmlwidget-2">{"x":{"links":{"source":[27,1,24,10,28,2,19,25,2,3,0,32,2,21,2,8,2,24,11,1,9,21,13,10,9,9,34,9,9,39,25,11,5,6,32,9,14,16,15,14,35,9,19,37,29,7,12,1,20,36,10,2],"target":[33,33,37,30,30,23,23,26,3,4,15,49,16,32,32,32,32,47,27,27,50,31,31,12,46,41,51,45,35,55,48,20,6,7,39,56,17,17,18,18,52,54,44,38,38,8,43,13,22,53,42,40],"value":[10,9.6551724137931,9.04214559386973,8.69731800766283,8.69731800766283,8.69731800766283,8.69731800766283,8.69731800766283,8.69731800766283,8.65900383141762,8.65900383141762,8.08429118773946,6.20689655172414,5.55555555555556,5.47892720306513,4.59770114942529,4.2911877394636,4.2911877394636,4.2911877394636,4.2911877394636,4.2911877394636,4.2911877394636,4.25287356321839,4.13793103448276,3.79310344827586,3.75478927203065,3.44827586206897,3.33333333333333,3.25670498084291,3.10344827586207,3.10344827586207,3.10344827586207,3.10344827586207,3.10344827586207,3.10344827586207,2.98850574712644,2.95019157088123,2.79693486590038,2.56704980842912,2.56704980842912,2.52873563218391,2.52873563218391,2.45210727969349,2.33716475095785,2.1455938697318,2.1455938697318,2.1455938697318,2.10727969348659,2.10727969348659,2.10727969348659,1.99233716475096,1.99233716475096],"colour":["#666","#666","#666","#666","#666","#666","#666","#666","#666","#666","#666","#666","#666","#666","#666","#666","#666","#666","#666","#666","#666","#666","#666","#666","#666","#666","#666","#666","#666","#666","#666","#666","#666","#666","#666","#666","#666","#666","#666","#666","#666","#666","#666","#666","#666","#666","#666","#666","#666","#666","#666","#666"]},"nodes":{"name":["climate","globalcrisis","globalwarming","catastrophic","causing","current","msm","narrative","straight","rt","global","online","crisis","time4truth","avoid","change","climateactionnow","plastics","please","t.co","international","climatecrisis","truth","aqtl0bico4","approx","average","c","conference","part","temperature","2","creativesociety","climatechange","04.12.2021","will","graphsandcharts","slowly","1975","since","nytimes","whi","ellymelly","warming","time","sfimg5a2oe","genius_mindsss","drgem2015","climatedata","increase","climateaction","creativescty","gain","post","turn","rebeccah2030","guardian","officialmbtm"],"group":[1,1,1,1,1,1,1,1,1,1,1,1,1,1,1,1,1,1,1,1,1,1,1,1,1,1,1,1,1,1,1,1,1,1,1,1,1,1,1,1,1,1,1,1,1,1,1,1,1,1,1,1,1,1,1,1,1],"nodesize":[2.61,3.96,9.5,4.54,2.27,2.27,4.54,4.54,4.54,6.66,4.33,2.7,2.88,3.72,2.24,3.73,2.24,2.24,2.24,1.99,1.98,1.71,0.9,1.72,1.36,1.62,0.81,3.21,0.81,0.81,1.58,1.93,7.53,1.47,0.66,1.12,0.56,1.1,1.36,1.13,2.26,2.26,2.11,1.43,1.12,1.11,0.99,0.81,0.81,0.67,0.67,0.66,0.56,0.56,0.55,0.52,0.52]},"options":{"NodeID":"name","Group":"Group","colourScale":"d3.scaleOrdinal(d3.schemeCategory20);","fontSize":12,"fontFamily":"serif","clickTextSize":30,"linkDistance":50,"linkWidth":"function(d) { return Math.sqrt(d.value); }","charge":-30,"opacity":0.9,"zoom":true,"legend":false,"arrows":false,"nodesize":true,"radiusCalculation":" Math.sqrt(d.nodesize)+6","bounded":false,"opacityNoHover":1,"clickAction":null}},"evals":[],"jsHooks":[]}</script>
 
 BRRR::skrrrahh("44")
 ## Warning in BRRR::skrrrahh("44"): "44" is not a valid sound nor path.
